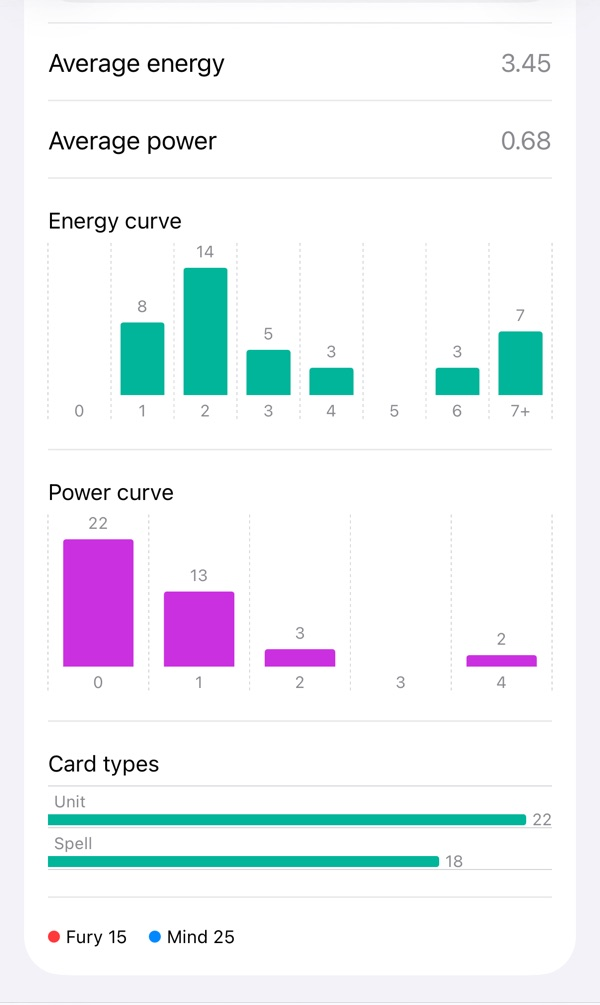
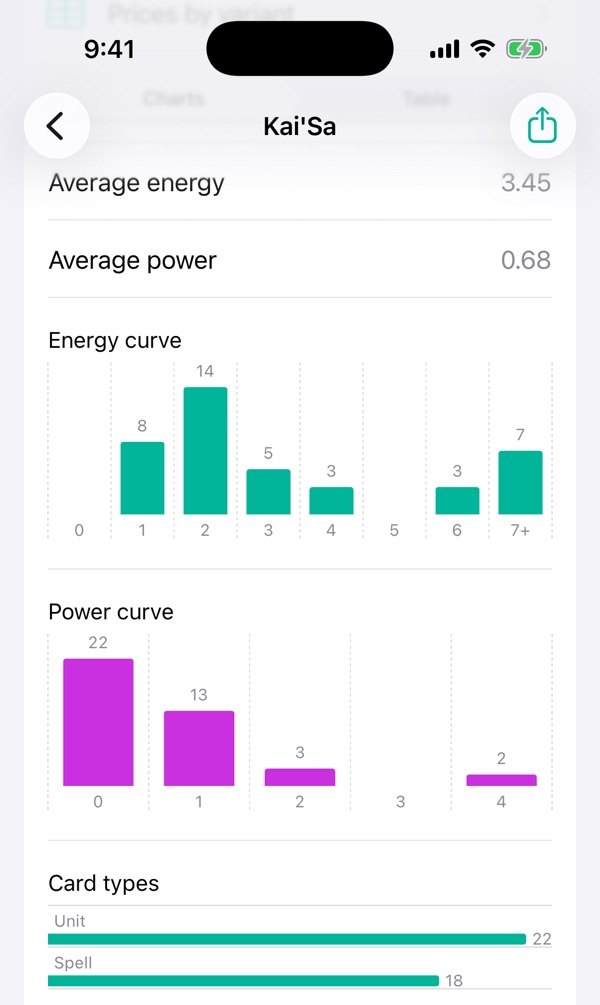
Keep the deck title in the deck stats screenshot

diff --git a/index.html b/index.html
@@ -36,7 +36,7 @@ layout: default
   <figure><img src="assets/img/events.jpg" alt="Event with its rounds and record" width="600" height="1005"><figcaption>Events</figcaption></figure>
   <figure><img src="assets/img/decks.jpg" alt="Top tournament decks ranked by cost to finish, with the share of each you already own" width="600" height="1005"><figcaption>Build from your collection</figcaption></figure>
   <figure><img src="assets/img/chat.jpg" alt="Deck chat about a complete Kai'Sa deck, suggesting a sideboard swap with an Apply button" width="600" height="1005"><figcaption>Deck chat</figcaption></figure>
-  <figure><img src="assets/img/stats.jpg" alt="Deck stats with average energy and power, energy and power curves, card types and domains" width="600" height="1005"><figcaption>Deck stats</figcaption></figure>
+  <figure><img src="assets/img/stats.jpg" alt="Deck stats for a Kai'Sa deck: average energy and power, energy and power curves, and card types" width="600" height="1005"><figcaption>Deck stats</figcaption></figure>
   <figure><img src="assets/img/registration.jpg" alt="Registration sheet for a Kai'Sa deck with player, event and a preview of the PDF" width="600" height="1005"><figcaption>Registration sheet</figcaption></figure>
   <figure><img src="assets/img/import.jpg" alt="Import preview of a pasted card list, with its value and matched cards" width="600" height="1005"><figcaption>Import</figcaption></figure>
 </div>
